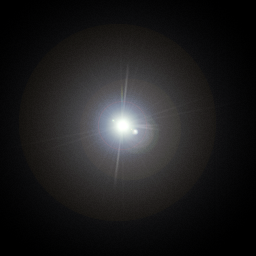
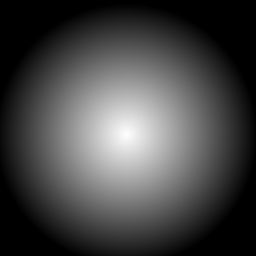
engine thrust paricle

diff --git a/Sources/Client/Views/VisualObject.cpp b/Sources/Client/Views/VisualObject.cpp
@@ -52,19 +52,26 @@ VisualObject::VisualObject(
 
     try
     {
-        int x = tms.getValue<int>("engine1.thrust.x");
-        int y = tms.getValue<int>("engine1.thrust.y");
-        int z = tms.getValue<int>("engine1.thrust.z");
+        for (int i = 1; i < 10; i++)
+        {
+            std::stringstream engineNameSs;
+            engineNameSs << "engine";
+            engineNameSs << i;
 
-        LOG_DEBUG << "Engine1 thrust at: " << x << ", " << y << ", " << z;
+            int x = tms.getValue<int>(engineNameSs.str() + ".thrust.x");
+            int y = tms.getValue<int>(engineNameSs.str() + ".thrust.y");
+            int z = tms.getValue<int>(engineNameSs.str() + ".thrust.z");
 
-        std::stringstream ss;
-        ss << "particle-" << object.getId();
-        Ogre::ParticleSystem * ps = scene.createParticleSystem(ss.str(), "EngineTail");
+            LOG_DEBUG << "Engine" << i << " thrust at: " << x << ", " << y << ", " << z;
 
-        auto * psNode = m_node->createChildSceneNode();
-        psNode->setPosition(Ogre::Vector3(x, y, z));
-        psNode->attachObject(ps);
+            std::stringstream ss;
+            ss << "engine-particle-" << object.getId() << "-" << i;
+            Ogre::ParticleSystem * ps = scene.createParticleSystem(ss.str(), "EngineTail");
+
+            auto * psNode = m_node->createChildSceneNode();
+            psNode->setPosition(Ogre::Vector3(x, y, z));
+            psNode->attachObject(ps);
+        }
     }
     catch (const std::exception & ex)
     {

diff --git a/Sources/Server/Services/ServerInfoService.cpp b/Sources/Server/Services/ServerInfoService.cpp
@@ -5,6 +5,6 @@ using namespace Server::Services;
 void ServerInfoService::handle(const Common::Messages::ServerVersionReq &, Network::IConnection & connection)
 {
     Common::Messages::ServerVersionResp resp;
-    resp.version = "Rusted server, development version, build "__TIME__;
+    resp.version = "Rusted server, development version, build ";
     connection.send(resp);
 }
